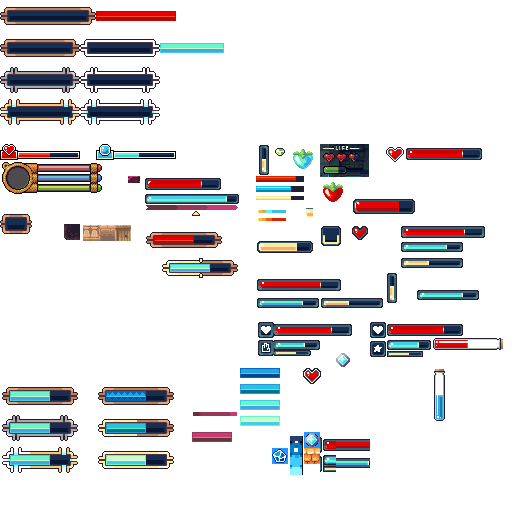
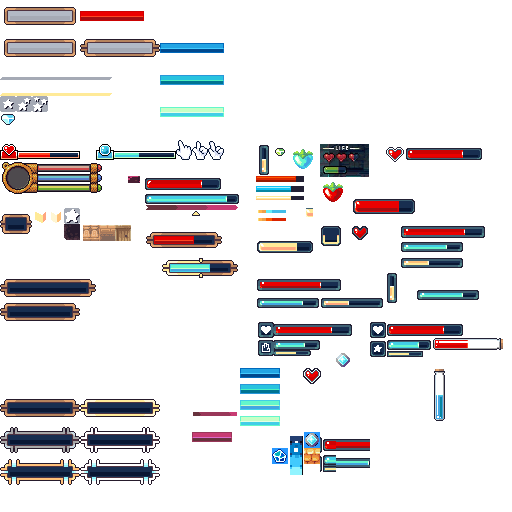
HUD is working and v1 is done

diff --git a/Platformer/Objects/Main/HUD.cs b/Platformer/Objects/Main/HUD.cs
@@ -22,12 +22,14 @@ namespace Platformer.Objects.Main
 
 
         private Font font;
+        private Font hudFont;
         private Player player;
         
         public HUD()
         {
             //font = AssetManager.HUDFontSmall;
             font = AssetManager.DamageFont;
+            hudFont = AssetManager.HUDFont;
         }
 
         internal void SetTarget(Player player)
@@ -44,7 +46,7 @@ namespace Platformer.Objects.Main
             
             hp = player.HP;
             maxHP = stats.MaxHP;
-            mp = player.MP;
+            mp = (float)Math.Floor(player.MP);
             maxMP = stats.MaxMP;
             coins = stats.Coins;            
         }
@@ -56,33 +58,41 @@ namespace Platformer.Objects.Main
 
             var s = .5f;
 
-            font.Halign = Font.HorizontalAlignment.Center;
             font.Valign = Font.VerticalAlignment.Top;
 
-            //font.Draw(sb, x + 2, y + 2, $"HP: {hp}/{maxHP}", scale: .5f, depth: .991f);
-            //font.Draw(sb, x + 2, y + 2 + 9, $"MP: {Math.Floor(mp)}/{maxMP}", scale: .5f, depth: .991f);
-            //font.Draw(sb, x + 2, y + 2 + 18, $"Coins: {coins}", scale: .5f, depth: .991f);
-
-            //font.Halign = Font.HorizontalAlignment.Center;
-
-
-            //font.Draw(sb, x + 20, y + 5.5f, $"{hp}/{maxHP}", scale: .5f, depth: .991f);
-            //font.Draw(sb, x + 20, y + 5.5f, $"{hp}/{maxHP}", scale: .5f, depth: .991f);
-
-            //font.Draw(sb, x + 8f, y + 18.5f, $"Lv. 1", scale: .5f, depth: .991f);
-            
-            //font.Draw(sb, x + 8, y + 13, $"1{Math.Floor(mp)}/1{maxMP}", scale: .5f, depth: .991f);
+            // ----- left -----
 
             // HP
-            sb.Draw(AssetManager.HUD, new Vector2(x, y), new Rectangle(0, 0, 96, 32), Color.White, 0, Vector2.Zero, new Vector2(s), SpriteEffects.None, Globals.LAYER_UI + .00001f);
-            sb.Draw(AssetManager.HUD, new Vector2(x + 8 * s, y), new Rectangle(96, 0, (int)(80 * hp / maxHP), 32), Color.White, 0, Vector2.Zero, new Vector2(s), SpriteEffects.None, Globals.LAYER_UI + .00002f);
-            font.Draw(sb, x + 48 * s, y + 11 * s, $"{hp}", scale: .5f, depth: Globals.LAYER_UI + .00003f);
 
+            var hpx = x + RoomCamera.Current.ViewWidth - 40 - 2;
+            var hpy = y;
+
+            font.Halign = Font.HorizontalAlignment.Center;
+
+            sb.Draw(AssetManager.HUD, new Vector2(hpx + 2 * s, hpy), new Rectangle(0, 0, 80, 32), Color.White, 0, Vector2.Zero, new Vector2(s), SpriteEffects.None, Globals.LAYER_UI + .00001f);
+            sb.Draw(AssetManager.HUD, new Vector2(hpx + 2 * s + 8 * s, hpy), new Rectangle(80, 0, (int)(64 * hp / maxHP), 32), Color.White, 0, Vector2.Zero, new Vector2(s), SpriteEffects.None, Globals.LAYER_UI + .00002f);
+            
+            //if (hp > 0)
+                //font.Draw(sb, hpx + 80 * s - 6 * s, hpy + 11 * s, $"{hp}", scale: .5f, depth: Globals.LAYER_UI + .00003f);
+            font.Draw(sb, hpx + 42 * s, hpy + 4 * s, $"{hp}/{maxHP}", scale: .5f, depth: Globals.LAYER_UI + .00003f);
+
+            // ----- right -----
+
+            var mpx = x + 2;
+            var mpy = y;
+
+            // COIN
+
+            sb.Draw(AssetManager.HUD, new Vector2(hpx + 80 * s - 16 * s, hpy + 32 * s), new Rectangle(0, 112, 16, 16), Color.White, 0, Vector2.Zero, new Vector2(s), SpriteEffects.None, Globals.LAYER_UI + .00001f);
+
+            hudFont.Valign = Font.VerticalAlignment.Top;
+            hudFont.Halign = Font.HorizontalAlignment.Right;
+            hudFont.Draw(sb, hpx + 80 * s - 16 * s, hpy + 33 * s, $"{coins}", scale: .5f, depth: Globals.LAYER_UI + .00003f);
+            
             if (player.Orb != null)
             {
 
                 var spell = player.Stats.Spells.ElementAt(player.Stats.SpellIndex).Key;
-
                 var spellLevel = (int)player.Stats.Spells[spell] - 1;
 
                 int maxExp = player.Orb.MaxEXP[spell][player.Stats.Spells[spell]];
@@ -91,47 +101,20 @@ namespace Platformer.Objects.Main
                     expRatio = player.Stats.SpellEXP[spell] / (float)maxExp;
 
                 // MP
-                sb.Draw(AssetManager.HUD, new Vector2(x, y + 24 * s), new Rectangle(0, 32 + 32 * spellLevel, 80, 32), Color.White, 0, Vector2.Zero, new Vector2(s), SpriteEffects.None, Globals.LAYER_UI + .00001f);
-                sb.Draw(AssetManager.HUD, new Vector2(x, y + 24 * s), new Rectangle(80, 32 + 32 * spellLevel, (int)(80 * expRatio), 32), Color.White, 0, Vector2.Zero, new Vector2(s), SpriteEffects.None, Globals.LAYER_UI + .00002f);
-                sb.Draw(AssetManager.HUD, new Vector2(x + 8 * s, y + 24 * s), new Rectangle(160, 32, (int)(64 * mp / maxMP), 32), Color.White, 0, Vector2.Zero, new Vector2(s), SpriteEffects.None, Globals.LAYER_UI + .00003f);
-                font.Draw(sb, x + 42 * s, y + 24 * s + 11 * s, $"{Math.Floor(mp)}", scale: .5f, depth: Globals.LAYER_UI + .00004f);
-            }
 
-            /*
-            var width = 5 * Globals.TILE;
+                font.Halign = Font.HorizontalAlignment.Left;
 
-            for(var i = 0; i < width; i++)
-            {
-                float t1 = (float)i / (float)width;
-                float t2 = (float)hp / (float)maxHP;
+                sb.Draw(AssetManager.HUD, new Vector2(mpx + 30 * s, mpy), new Rectangle(0, 32, 80, 32), Color.White, 0, Vector2.Zero, new Vector2(s), SpriteEffects.None, Globals.LAYER_UI + .00001f);
+                sb.Draw(AssetManager.HUD, new Vector2(mpx + 30 * s + 8 * s, mpy), new Rectangle(160, 32 + 32 * spellLevel, (int)(64 * mp / maxMP), 32), Color.White, 0, Vector2.Zero, new Vector2(s), SpriteEffects.None, Globals.LAYER_UI + .00003f);
+                font.Draw(sb, mpx + 40 * s, mpy + 11 * s, $"{mp}", scale: .5f, depth: Globals.LAYER_UI + .00004f);
 
-                var row = 1 - Convert.ToInt32(t1 < t2);
-                var col = 1;
-
-                if (i == 0)
-                    col = 0;
-                if(i == width - 1)
-                    col = 2;
-
-                sb.Draw(Texture, new Vector2(x + i * scale, y), new Rectangle(col, 16 * row, 1, 10), Color.White, 0, Vector2.Zero, scale, SpriteEffects.None, .99f);
-            }
-
-            /*
-            // magic
-
-            sb.Draw(Texture, new Vector2(x + 12, y + 8), new Rectangle(0, 16, 11, 12), Color.White, 0, Vector2.Zero, Vector2.One, SpriteEffects.None, 1);
-
-            var mpFactor = .25f;
-
-            for (var i = 0; i < maxMP * mpFactor; i++)
-            {
-                var col = 0 + Convert.ToInt32(i < mp * mpFactor);
-
-                if (i == 0 || i == maxMP * mpFactor - 1)
-                    col = 2;
-
-                sb.Draw(Texture, new Vector2(x + 12 + 12 + i, y + 8), new Rectangle(16 + col, 16, 1, 7), Color.White, 0, Vector2.Zero, Vector2.One, SpriteEffects.None, 1);
-            }*/
+                // EXP
+                sb.Draw(AssetManager.HUD, new Vector2(mpx, mpy + 14 * s), new Rectangle(0, 64, 112, 16), Color.White, 0, Vector2.Zero, new Vector2(s), SpriteEffects.None, Globals.LAYER_UI + .00002f);
+                sb.Draw(AssetManager.HUD, new Vector2(mpx, mpy + 14 * s), new Rectangle(0, 80, (int)(112 * expRatio), 16), Color.White, 0, Vector2.Zero, new Vector2(s), SpriteEffects.None, Globals.LAYER_UI + .00003f);
+                
+                // LV
+                sb.Draw(AssetManager.HUD, new Vector2(mpx + 8 * s, mpy + 8 * s), new Rectangle(16 * spellLevel, 96, 16, 16), Color.White, 0, Vector2.Zero, new Vector2(s), SpriteEffects.None, Globals.LAYER_UI + .00002f);                
+            }            
         }
     }
 }

diff --git a/Platformer/MainGame.cs b/Platformer/MainGame.cs
@@ -195,7 +195,7 @@ namespace Platformer
                 var sep = RoomCamera.Current.ToVirtual(mouse.Position.ToVector2());
                 if (ObjectManager.CollisionPointFirstOrDefault<SpellEXP>(sep.X, sep.Y) == null)
                 {
-                    SpellEXP.Spawn(sep.X, sep.Y, 17);
+                    SpellEXP.Spawn(sep.X, sep.Y, 1);
                 }
             }
 

diff --git a/Platformer/Objects/Effects/Emitters/WaterFallEmitter.cs b/Platformer/Objects/Effects/Emitters/WaterFallEmitter.cs
@@ -33,7 +33,7 @@ namespace Platformer.Objects.Effects.Emitters
 
             this.particleAlpha = particleAlpha;
 
-            Alpha = particleAlpha;
+            Alpha = particleAlpha;            
             
             stuck = true;
         }
